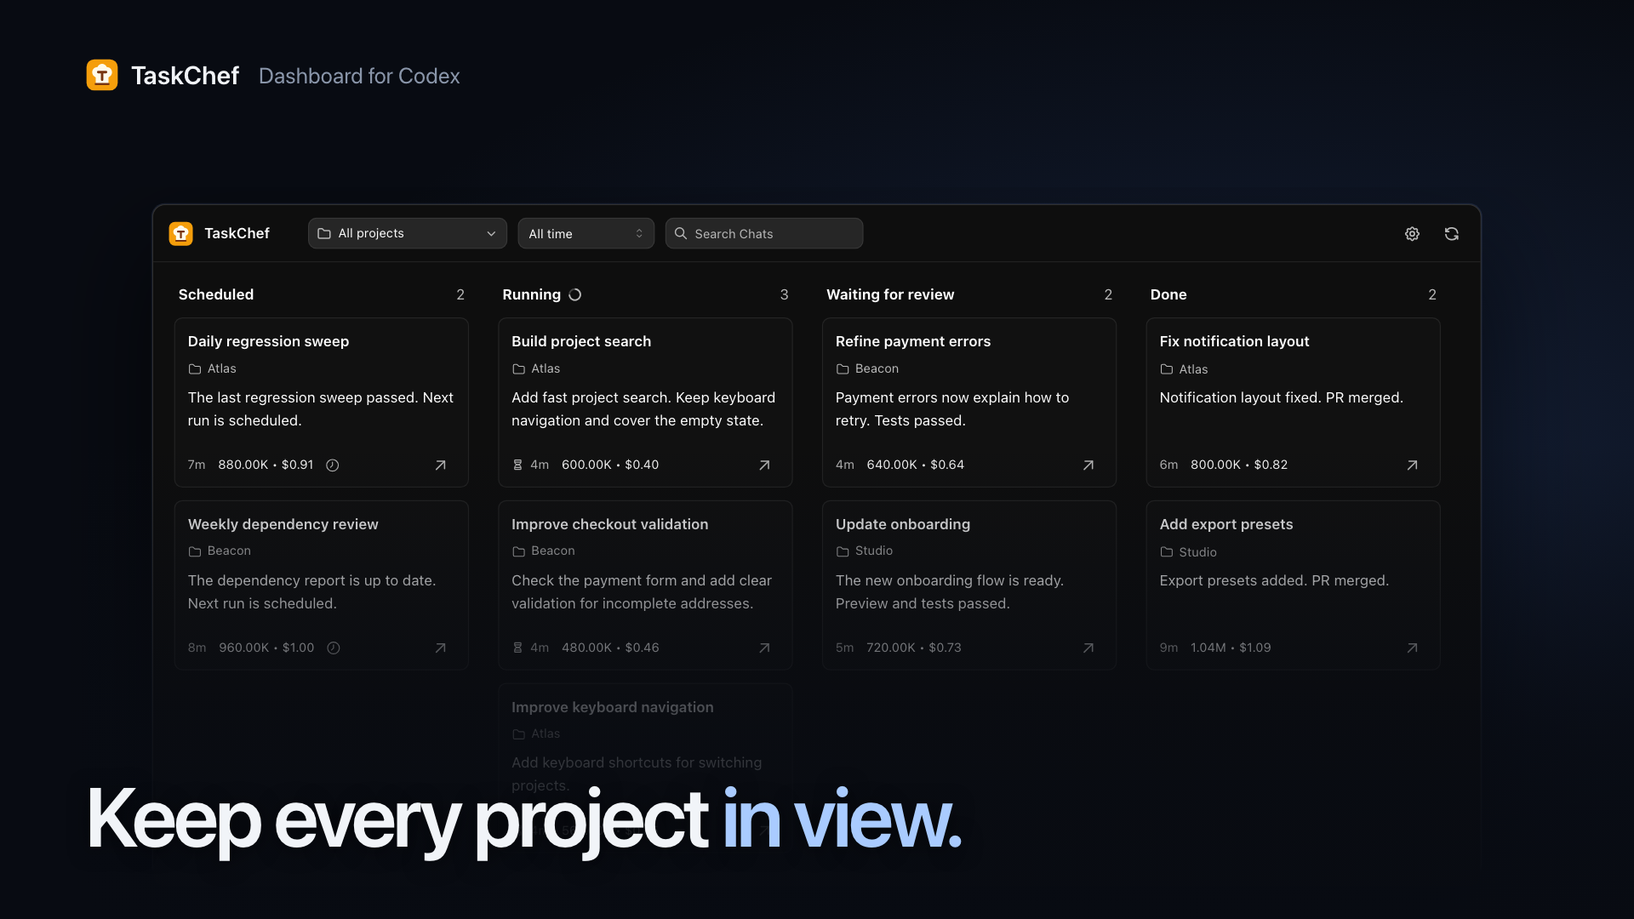
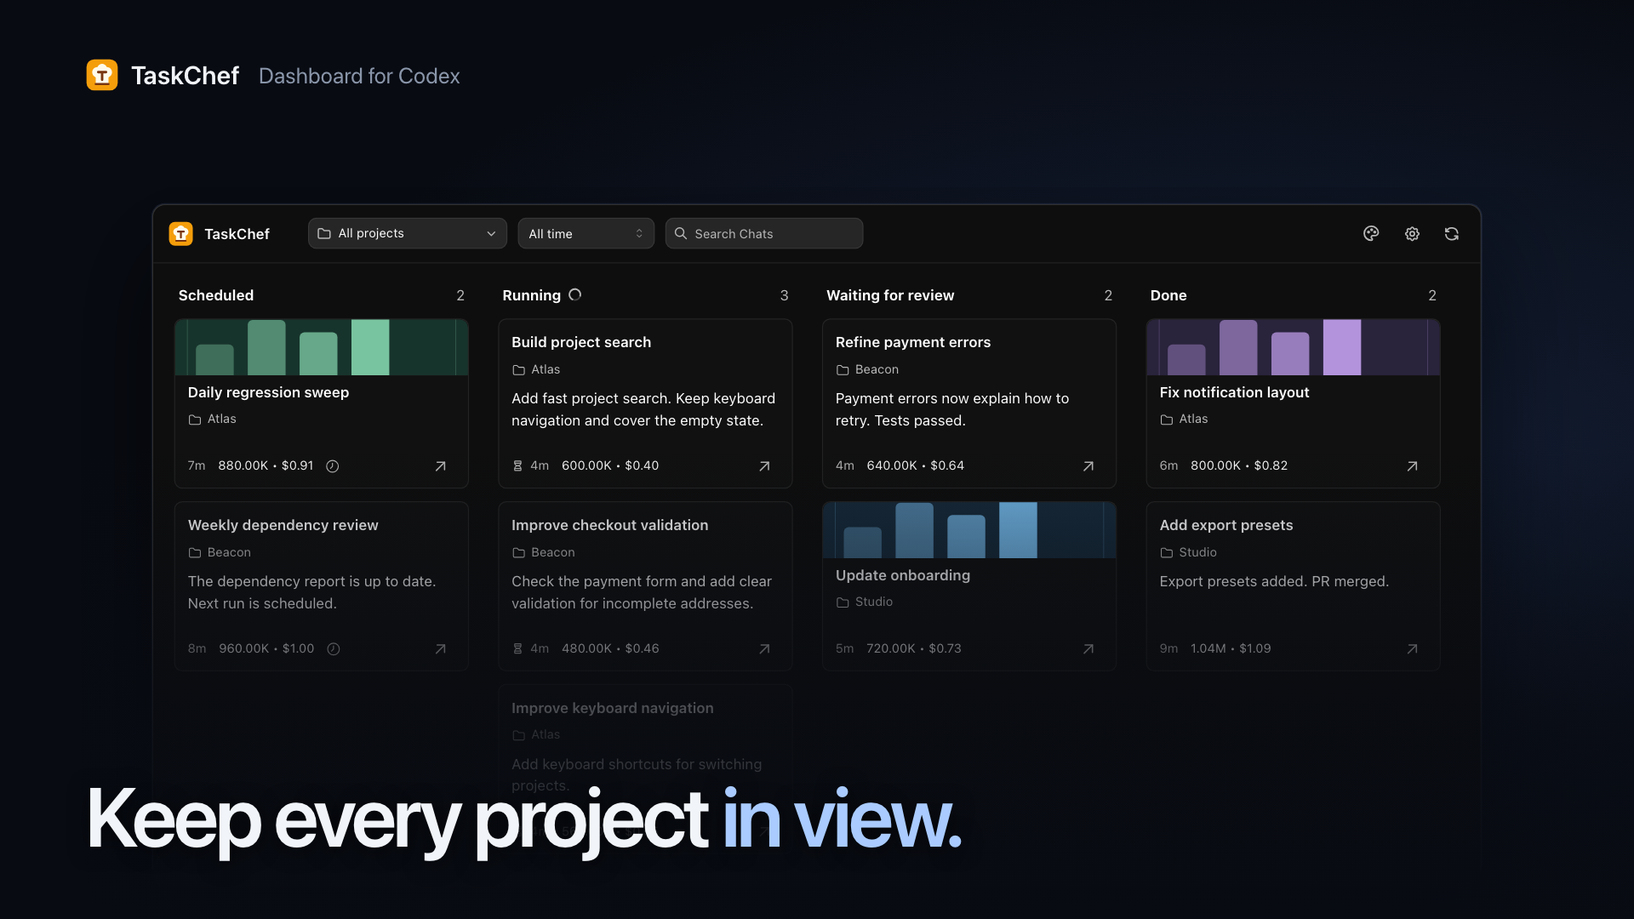
chore(video): tighten pacing and showcase covers and themes

diff --git a/video/Launch.tsx b/video/Launch.tsx
@@ -23,7 +23,13 @@ function ChapterTitle({ children }: { children: ReactNode }) {
 export function Launch() {
   const frame = useCurrentFrame();
   const { fps } = useVideoConfig();
-  const time = frame / fps;
+  const elapsed = frame / fps;
+  // Cut the opening by 20 frames and the overview pause by 45 frames.
+  const time = elapsed + (frame >= 115 ? 65 / 30 : 20 / 30);
+  const themeScene = frame >= 865 && frame < 1000;
+  const themeTime = (frame - 865) / fps;
+  const themeId = themeScene && themeTime >= 2 && themeTime < 3 ? 'chatgpt' : themeScene && themeTime >= 3 && themeTime < 4 ? 'catppuccin' : 'codex';
+  const appearance = themeId === 'chatgpt' ? 'light' : 'dark';
   // One camera and one board preserve spatial continuity across chapters.
   const times = [2, 6.7, 7.6, 11.7, 12.7, 15.7, 17.1, 18.2, 19, 20.9, 22.2, 25.8, 27, 28, 28.7, 29.2, 30, 31];
   const scales = [1.22, 1.22, 3, 3, 2.4, 2.4, 1.22, 1.22, 2.3, 2.3, 2.4, 2.4, 1.22, 1.22, 2.8, 2.8, 1.22, 1.22];
@@ -35,38 +41,39 @@ export function Launch() {
     : phase === 'merged' && time < 24.5 ? interpolate(time, [23.8, 24.5], [0, 1], { ...clamp, easing: ease }) : undefined;
   const live = interpolate(time, [8.3, 10.7], [0, 1], clamp);
   const liveUsage = usage(Math.round(600_000 + live * 640_000), .4 + live * .46);
-  const selected = time >= 28.6;
+  const selected = time >= 28.6 && !themeScene;
   const filter = interpolate(time, [28.6, 29.2], [0, 1], { ...clamp, easing: ease });
   const fadeOther = interpolate(time, [28.25, 28.6], [1, 0], clamp);
   const detail = time >= 18.2 && time < 20.9;
   const usageRow = time < 19.9 ? 1 : 2;
   return <AbsoluteFill className="film opening-study launch-film" style={themeVariables(visualTheme('codex', 'dark'), 'dark') as CSSProperties}>
-    <Audio name="Tech House vibes — Mixkit" src={staticFile('tech-house-vibes.mp3')} trimBefore={Math.round(1.52 * fps)} durationInFrames={34 * fps} premountFor={fps}
-      volume={interpolate(time, [0, .1, 32.8, 34], [0, .8, .8, 0], clamp)} />
+    <Audio name="Tech House vibes — Mixkit" src={staticFile('tech-house-vibes.mp3')} trimBefore={Math.round(1.52 * fps)} durationInFrames={1090} premountFor={fps}
+      volume={interpolate(elapsed, [0, .1, 35.1, 1090 / fps], [0, .8, .8, 0], clamp)} />
     <div className="opening-halo" style={{ translate: `${Math.sin(time * .7) * 90}px ${Math.cos(time * .5) * 35}px` }} />
-    {time >= 2 && time < 31 && <div className="opening-brand"><Img src={staticFile('taskchef-dark.svg')} alt="" />TaskChef <span>Dashboard for Codex</span></div>}
-    <Sequence name="Product identity" from={0} durationInFrames={2 * fps} premountFor={fps}>
+    {frame >= 40 && frame < 1000 && <div className="opening-brand"><Img src={staticFile('taskchef-dark.svg')} alt="" />TaskChef <span>Dashboard for Codex</span></div>}
+    <Sequence name="Product identity" from={0} durationInFrames={40} premountFor={fps}>
       <div className="opening-type"><div className="opening-identity"><div><Img src={staticFile('taskchef-dark.svg')} alt="" /><span>TaskChef</span></div><p>Dashboard for Codex</p></div></div>
       <div className="opening-rails" style={{ rotate: '-12deg', translate: `${time * 180 - 240}px 0` }}><i /><i /><i /></div>
-      <FloatingChats time={time} heroUsage={usage(600_000, .4)} />
+      <FloatingChats time={elapsed} heroUsage={usage(600_000, .4)} />
     </Sequence>
-    {time >= 2 && time < 31 && <div className="opening-board-mask">
-      <div className="opening-board-stage" inert style={{ left: pose(xs), top: pose(ys) - 220, scale: pose(scales) }}>
-        <ProductBoard phase={phase} moveProgress={move} project={selected ? 'atlas' : ''} heroUsage={phase === 'running' ? liveUsage : undefined} filterProgress={selected ? filter : undefined} highlightProject={time >= 28 && time < 29.3}>
+    {frame >= 40 && frame < 1000 && <div className="opening-board-mask">
+      <div className="opening-board-stage" inert style={{ left: themeScene ? interpolate(themeTime, [0, 1.5, 2, 4, 4.5], [179, 179, -160, -160, 179], { ...clamp, easing: ease }) : pose(xs), top: (themeScene ? interpolate(themeTime, [0, 1.5, 2, 4, 4.5], [240, 240, 200, 200, 240], { ...clamp, easing: ease }) : pose(ys)) - 220, scale: themeScene ? interpolate(themeTime, [0, 1.5, 2, 4, 4.5], [1.22, 1.22, 1.6, 1.6, 1.22], { ...clamp, easing: ease }) : pose(scales) }}>
+        <ProductBoard themeId={themeId} appearance={appearance} showThemePanel={themeScene} phase={phase} moveProgress={move} project={selected ? 'atlas' : ''} heroUsage={phase === 'running' ? liveUsage : undefined} filterProgress={selected ? filter : undefined} highlightProject={time >= 28 && time < 29.3}>
           <style>{`.launch-film .film-product .mantine-Modal-content { max-height: 505px; }
             .launch-film .taskchef-detail-usage tbody tr:nth-child(${usageRow}) { background: #8cc9ff20; }
-            ${demoTasks('merged').filter(task => task.project.id !== 'atlas').map(task => `.launch-film [data-chat-id="${task.id}"] { opacity: ${time >= 28.25 ? fadeOther : 1}; }`).join('\n')}`}</style>
+            ${demoTasks('merged').filter(task => task.project.id !== 'atlas').map(task => `.launch-film [data-chat-id="${task.id}"] { opacity: ${!themeScene && time >= 28.25 ? fadeOther : 1}; }`).join('\n')}`}</style>
           {detail && <NextTaskDetail task={demoTasks('review')[0]} opened busy={false} error={null} onClose={noop} onOpenCodex={noop} />}
         </ProductBoard>
       </div>
     </div>}
-    <Sequence name="Full board" from={2 * fps} durationInFrames={2.5 * fps} premountFor={fps}><ChapterTitle>Keep every project <span>in view.</span></ChapterTitle></Sequence>
-    <Sequence name="Running and live usage" from={6 * fps} durationInFrames={2.5 * fps} premountFor={fps}><ChapterTitle>See what’s <span>running.</span></ChapterTitle></Sequence>
-    <Sequence name="Finished chat moves to review" from={11 * fps} durationInFrames={2.5 * fps} premountFor={fps}><ChapterTitle>Ready for <span>your review.</span></ChapterTitle></Sequence>
-    <Sequence name="Turn and chat usage" from={16 * fps} durationInFrames={2.5 * fps} premountFor={fps}><ChapterTitle>Usage, <span>turn by turn.</span></ChapterTitle></Sequence>
-    <Sequence name="Merged PR moves to Done" from={21 * fps} durationInFrames={2.5 * fps} premountFor={fps}><ChapterTitle>Merged. <span>Done.</span></ChapterTitle></Sequence>
-    <Sequence name="Project filtering" from={26 * fps} durationInFrames={2.5 * fps} premountFor={fps}><ChapterTitle>Focus on <span>one project.</span></ChapterTitle></Sequence>
-    <Sequence name="TaskChef closing" from={31 * fps} durationInFrames={3 * fps} premountFor={fps}>
+    <Sequence name="Full board" from={40} durationInFrames={2.5 * fps} premountFor={fps}><ChapterTitle>Keep every project <span>in view.</span></ChapterTitle></Sequence>
+    <Sequence name="Running and live usage" from={115} durationInFrames={2.5 * fps} premountFor={fps}><ChapterTitle>See what’s <span>running.</span></ChapterTitle></Sequence>
+    <Sequence name="Finished chat moves to review" from={265} durationInFrames={2.5 * fps} premountFor={fps}><ChapterTitle>Ready for <span>your review.</span></ChapterTitle></Sequence>
+    <Sequence name="Turn and chat usage" from={415} durationInFrames={2.5 * fps} premountFor={fps}><ChapterTitle>Usage, <span>turn by turn.</span></ChapterTitle></Sequence>
+    <Sequence name="Merged PR moves to Done" from={565} durationInFrames={2.5 * fps} premountFor={fps}><ChapterTitle>Merged. <span>Done.</span></ChapterTitle></Sequence>
+    <Sequence name="Project filtering" from={715} durationInFrames={2.5 * fps} premountFor={fps}><ChapterTitle>Focus on <span>one project.</span></ChapterTitle></Sequence>
+    <Sequence name="Theme switching" from={865} durationInFrames={2.5 * fps} premountFor={fps}><ChapterTitle>Make it <span>your own.</span></ChapterTitle></Sequence>
+    <Sequence name="TaskChef closing" from={1000} durationInFrames={3 * fps} premountFor={fps}>
       <AbsoluteFill className="film film-closing"><div className="film-glow" /><div><Img src={staticFile('taskchef-dark.svg')} alt="" /><h1>TaskChef</h1><p>Dashboard for Codex</p><div className="film-url">taskchef.dev</div></div></AbsoluteFill>
     </Sequence>
   </AbsoluteFill>;

diff --git a/video/Frame.tsx b/video/Frame.tsx
@@ -1,12 +1,13 @@
 import type { CSSProperties, ReactNode } from 'react';
 import { AbsoluteFill, Easing, Img, interpolate, staticFile, useCurrentFrame, useVideoConfig } from 'remotion';
-import { ActionIcon, Group, MantineProvider, Select, TextInput, Title, createTheme } from '@mantine/core';
-import { IconRefresh, IconSearch, IconSettings } from '@tabler/icons-react';
+import { ActionIcon, Group, MantineProvider, Select, SegmentedControl, TextInput, Title, createTheme } from '@mantine/core';
+import { IconCheck, IconRefresh, IconSearch, IconSettings } from '@tabler/icons-react';
 import { TaskBoard } from '../src/ui/components/TaskBoard';
 import { turnUsageLabel } from '../src/ui/components/SavedUsageFormat';
 import { RelativeTimeProvider } from '../src/ui/components/RelativeTime';
 import { ProjectPicker } from '../src/mcp-app/react/ProjectPicker';
-import { themeVariables, visualTheme } from '../src/mcp-app/react/themes';
+import { AppearancePicker } from '../src/mcp-app/react/AppearancePicker';
+import { themeVariables, visualTheme, type Appearance } from '../src/mcp-app/react/themes';
 const mark = staticFile('taskchef-dark.svg');
 import { DEMO_NOW, HERO_ID, LANES, PROJECTS, demoTasks, usage, type Phase } from './demo';
 import type { SavedUsage } from '../src/ui/types';
@@ -15,6 +16,26 @@ const theme = createTheme({ fontFamily: '-apple-system, BlinkMacSystemFont, "Seg
   components: { Modal: { defaultProps: { withinPortal: false, lockScroll: false, transitionProps: { duration: 0 } } } } });
 const palette = themeVariables(visualTheme('codex', 'dark'), 'dark');
 const noop = () => {};
+const loadDemoImage = async (_task: unknown, url?: string) => url ?? null;
+
+// Frame-controlled presentation of the native appearance panel and its controls.
+function FilmThemePanel({ themeId, appearance }: { themeId: string; appearance: Appearance }) {
+  return <section className="next-appearance-panel" aria-label="Appearance settings">
+    <h2>Appearance</h2>
+    <SegmentedControl key={appearance} transitionDuration={0} fullWidth value={appearance} onChange={noop} data={[{ value: 'light', label: 'DAY' }, { value: 'dark', label: 'NIGHT' }, { value: 'system', label: 'SYSTEM' }]} size="xs" />
+    <h3>Theme</h3><div className="next-theme-list" role="radiogroup" aria-label="Theme">
+      {['chatgpt', 'catppuccin', 'codex'].map((id, index) => {
+        const item = visualTheme(id, appearance);
+        const colors = themeVariables(item, appearance);
+        return <div key={id}>{index === 1 && <div className="next-theme-group">Codex themes</div>}
+          <button className="next-appearance-theme" role="radio" aria-checked={id === themeId}>
+            <span className="next-appearance-preview" style={{ background: colors['--taskchef-surface'], color: colors['--taskchef-link'], borderColor: colors['--taskchef-border-heavy'] }}>Aa</span>
+            <span>{item.label}</span>{id === themeId && <IconCheck size={16} />}
+          </button></div>;
+      })}
+    </div>
+  </section>;
+}
 
 export function FilmFrame({ eyebrow, title, children }: { eyebrow: string; title: string; children: ReactNode }) {
   const frame = useCurrentFrame();
@@ -30,7 +51,7 @@ export function FilmFrame({ eyebrow, title, children }: { eyebrow: string; title
   </AbsoluteFill>;
 }
 
-export function ProductBoard({ phase, project = '', moveProgress, children, highlightProject = false, heroUsage, filterProgress }: { phase: Phase; project?: string; moveProgress?: number; children?: ReactNode; highlightProject?: boolean; heroUsage?: SavedUsage; filterProgress?: number }) {
+export function ProductBoard({ phase, project = '', moveProgress, children, highlightProject = false, heroUsage, filterProgress, themeId = 'codex', appearance = 'dark', showThemePanel = false }: { phase: Phase; project?: string; moveProgress?: number; children?: ReactNode; highlightProject?: boolean; heroUsage?: SavedUsage; filterProgress?: number; themeId?: string; appearance?: Appearance; showThemePanel?: boolean }) {
   const frame = useCurrentFrame();
   const tasks = demoTasks(phase, project);
   if (heroUsage) {
@@ -43,7 +64,7 @@ export function ProductBoard({ phase, project = '', moveProgress, children, high
   // Fix wall-clock labels and suppress the product's real-time FLIP animation.
   // The same destination card moves by a frame-driven transform in this film.
   const transform = moveProgress == null ? 'none' : `translate(${-312 * (1 - moveProgress)}px, ${-10 * Math.sin(Math.PI * moveProgress)}px)`;
-  return <div className={`film-product${highlightProject ? " film-product-highlight-project" : ""}`}>
+  return <div style={themeVariables(visualTheme(themeId, appearance), appearance) as CSSProperties} className={`film-product${highlightProject ? " film-product-highlight-project" : ""}`}>
     <style>{`
       .film-product .taskchef-board-card { transform: none !important; }
       .film-product [data-chat-id="${HERO_ID}"] { transform: ${transform} !important; position: relative; z-index: 5; ${moveProgress != null && moveProgress < 1 ? 'box-shadow: 0 16px 35px #0008; border-color: #75b8ff;' : ''} }
@@ -59,7 +80,7 @@ export function ProductBoard({ phase, project = '', moveProgress, children, high
       ${tasks.filter(task => task.status === 'working').map(task => `.film-product [data-chat-id="${task.id}"] .taskchef-card-turn-usage { font-size: 0; } .film-product [data-chat-id="${task.id}"] .taskchef-card-turn-usage::after { content: ${JSON.stringify(turnUsageLabel(task.turnUsage!))}; font-size: 12px; }`).join('\n')}
       .film-product .taskchef-running-spinner { animation: none; transform: rotate(${frame * 8}deg); }
     `}</style>
-    <MantineProvider theme={theme} forceColorScheme="dark">
+    <MantineProvider theme={theme} forceColorScheme={appearance}>
       <RelativeTimeProvider now={DEMO_NOW}>
         <div className="taskchef-app-shell">
           <header className="taskchef-app-header">
@@ -68,9 +89,9 @@ export function ProductBoard({ phase, project = '', moveProgress, children, high
               <ProjectPicker data={PROJECTS} value={project} onChange={noop} />
               <Select className="taskchef-app-date" aria-label="Updated" data={[{ label: "All time", value: "all" }]} value="all" onChange={noop} size="xs" /><TextInput className="taskchef-app-search" aria-label="Search Chats" placeholder="Search Chats" type="search" leftSection={<IconSearch size={14} />} value="" onChange={noop} size="xs" />
             </Group>
-            <Group className="taskchef-app-actions" gap="xs"><ActionIcon aria-label="Settings" variant="subtle"><IconSettings size={17} /></ActionIcon><ActionIcon aria-label="Refresh" variant="subtle"><IconRefresh size={17} /></ActionIcon></Group>
+            <Group className="taskchef-app-actions" gap="xs"><div className="next-appearance"><AppearancePicker value={appearance} appearance={appearance} visualThemeId={themeId} onChange={noop} onVisualThemeChange={noop} />{showThemePanel && <FilmThemePanel themeId={themeId} appearance={appearance} />}</div><ActionIcon aria-label="Settings" variant="subtle"><IconSettings size={17} /></ActionIcon><ActionIcon aria-label="Refresh" variant="subtle"><IconRefresh size={17} /></ActionIcon></Group>
           </header>
-          <main className="taskchef-app-main"><TaskBoard tasks={tasks} lanes={LANES} completedLimit={5} groupInterruptedWithWaiting onMoreCompleted={noop} onOpenCodex={noop} onOpenDetail={noop} /></main>
+          <main className="taskchef-app-main"><TaskBoard loadImage={loadDemoImage} tasks={tasks} lanes={LANES} completedLimit={5} groupInterruptedWithWaiting onMoreCompleted={noop} onOpenCodex={noop} onOpenDetail={noop} /></main>
         </div>
         {children}
       </RelativeTimeProvider>

diff --git a/video/demo.ts b/video/demo.ts
@@ -1,3 +1,4 @@
+import { staticFile } from 'remotion';
 import type { SavedUsage, Task, TaskStatus } from '../src/ui/types';
 
 // Synthetic fixtures only. The video never reads local chats or calls MCP/GitHub.
@@ -58,5 +59,9 @@ export function demoTasks(phase: Phase, project = ''): Task[] {
     chat(8, 'Weekly dependency review', 'beacon', 'scheduled', 'Review dependency updates every Monday.', 'The dependency report is up to date. Next run is scheduled.'),
     chat(9, 'Add export presets', 'studio', 'completed', 'Add portrait and landscape export presets.', 'Export presets added. PR merged.'),
   ];
+  for (const [id, name] of [[5, 'onboarding'], [6, 'notifications'], [7, 'regression']] as const) {
+    const task = tasks.find(item => item.id.endsWith(String(id).padStart(12, '0')))!;
+    task.replyImage = { url: staticFile(`${name}.svg`), alt: `${task.title} preview` };
+  }
   return project ? tasks.filter(task => task.project.id === project) : tasks;
 }

diff --git a/video/index.tsx b/video/index.tsx
@@ -20,7 +20,7 @@ for (const [key, value] of Object.entries(themeVariables(visualTheme('codex', 'd
 }
 
 registerRoot(() => <>
-  <Composition id="TaskChefLaunch" component={Launch} durationInFrames={1020} fps={30} width={1920} height={1080} />
+  <Composition id="TaskChefLaunch" component={Launch} durationInFrames={1090} fps={30} width={1920} height={1080} />
   <Folder name="Drafts">
     <Composition id="TaskChefOpening" component={OpeningStudy} durationInFrames={336} fps={30} width={1920} height={1080} />
     <Composition id="ParallelProjects" component={Opening} durationInFrames={180} fps={30} width={1920} height={1080} />

diff --git a/video/film.css b/video/film.css
@@ -66,3 +66,7 @@
 .opening-fragment-1 .taskchef-board-card:not([data-chat-id="00000000-0000-7000-8000-000000000001"]),
 .opening-fragment-2 .taskchef-board-card:not([data-chat-id="00000000-0000-7000-8000-000000000002"]),
 .opening-fragment-3 .taskchef-board-card:not([data-chat-id="00000000-0000-7000-8000-000000000003"]) { display: none; }
+
+.film-product .taskchef-board-card:has(.taskchef-reply-cover) .taskchef-turn-card { display: none; }
+.film-product .taskchef-reply-cover { height: 54px; margin-bottom: 6px; background: var(--taskchef-surface-muted); }
+.film-product .taskchef-reply-cover img { object-fit: cover; }

diff --git a/docs/launch/video-script.md b/docs/launch/video-script.md
@@ -1,6 +1,6 @@
 # TaskChef launch video — final script
 
-**Length:** 34 seconds. **Format:** 1920 × 1080, 30 fps.
+**Length:** 36⅓ seconds. **Format:** 1920 × 1080, 30 fps.
 **Positioning:** Dashboard for Codex. Keep every project in view.
 
 The film uses the actual TaskChef React components, controls, mark and Codex
@@ -9,16 +9,21 @@ there is no narration or screen recording.
 
 | Time | Title | Picture and action |
 | --- | --- | --- |
-| 0–2s | TaskChef · Dashboard for Codex | Logo, name, descriptor and native cards visible from frame zero. Cards move gently beside the identity. |
-| 2–6s | Keep every project in view. | Large title overlays the full board, then fades to reveal it. Scheduled, Running, Waiting for review and Done remain visible with nine chats. No Running close-up in this chapter. |
-| 6–11s | See what’s running. | Move into Running. Follow Build project search as latest-turn tokens rise from 600K to 1.24M and estimated API-equivalent cost rises from $0.40 to $0.86. |
-| 11–16s | Ready for your review. | The chat finishes. Follow the same card into Waiting for review while neighboring cards make room. Its prompt becomes its result. |
-| 16–21s | Usage, turn by turn. | Open the native Details popup. Highlight Latest turn (1.24M · $0.86), then Total chat (5.32M · $3.72). Keep the native API estimate note visible. |
-| 21–26s | Merged. Done. | Latest-turn PR #42 changes from open to merged. Its native link, result text and glyph update as the card moves into Done. |
-| 26–31s | Focus on one project. | Highlight the real project picker. Change All projects to Atlas. Other projects fade out and matching cards reposition. Scheduled remains visible. |
-| 31–34s | TaskChef · Dashboard for Codex | Logo, identity and taskchef.dev. Music fades to the ending. |
+| 0–1.33s | TaskChef · Dashboard for Codex | Logo, name, descriptor and native cards visible from frame zero. Cards move gently beside the identity. |
+| 1.33–3.83s | Keep every project in view. | Large title overlays the full board, then fades to reveal it. Scheduled, Running, Waiting for review and Done remain visible with nine chats and three synthetic image covers. No Running close-up in this chapter. |
+| 3.83–8.83s | See what’s running. | Move into Running. Follow Build project search as latest-turn tokens rise from 600K to 1.24M and estimated API-equivalent cost rises from $0.40 to $0.86. |
+| 8.83–13.83s | Ready for your review. | The chat finishes. Follow the same card into Waiting for review while neighboring cards make room. Its prompt becomes its result. |
+| 13.83–18.83s | Usage, turn by turn. | Open the native Details popup. Highlight Latest turn (1.24M · $0.86), then Total chat (5.32M · $3.72). Keep the native API estimate note visible. |
+| 18.83–23.83s | Merged. Done. | Latest-turn PR #42 changes from open to merged. Its native link, result text and glyph update as the card moves into Done. |
+| 23.83–28.83s | Focus on one project. | Highlight the real project picker. Change All projects to Atlas. Other projects fade out and matching cards reposition. Scheduled remains visible. |
+| 28.83–33.33s | Make it your own. | Show the native appearance controls. Switch ChatGPT Day → Catppuccin Night → Codex Night, then return to the full board. |
+| 33.33–36.33s | TaskChef · Dashboard for Codex | Logo, identity and taskchef.dev. Music fades to the ending. |
 
-Each chapter title uses one line with white and blue emphasis. It stays fully readable for about two seconds over a dark
+The opening holds for 1⅓ seconds. The overview moves straight into Running
+after its title fades, without an idle hold.
+
+Each chapter title uses one line with white and blue emphasis. It stays fully
+readable for about two seconds over a dark
 gradient, then fades. The board remains the visual background. The camera
 moves directly from Running to review and from usage to Done. It returns to
 the full board for overview and project filtering, without resetting to a
@@ -34,24 +39,28 @@ npm run video:preview
 ```
 
 Open `http://localhost:8090/TaskChefLaunch` and press Play with sound enabled.
-The full composition is 1,020 frames. Studio exposes each chapter title as a
+The full composition is 1,090 frames. Studio exposes each chapter title as a
 named timeline item. The Drafts folder retains earlier scene studies; those
 are not the current full cut.
 
 Key review points at 30 fps:
 
 - Frame 0: complete product identity, without fade-in.
-- Frame 153: full board with nine chats and Scheduled.
-- Frames 270 and 318: changing native card token/cost values.
-- Frames 420–441: Running → Waiting for review.
-- Frames 585 and 609: latest-turn and total-chat usage highlights.
-- Frames 714–735: PR merged → Done.
-- Frames 847–876: project selection, fading and repositioning.
-- Frame 960: ending.
+- Frame 114: full board with nine chats and Scheduled.
+- Frames 205 and 253: changing native card token/cost values.
+- Frames 355–376: Running → Waiting for review.
+- Frames 520 and 544: latest-turn and total-chat usage highlights.
+- Frames 649–670: PR merged → Done.
+- Frames 782–811: project selection, fading and repositioning.
+- Frames 945 and 970: light and dark theme switches.
+- Frame 1040: ending.
 
 The shared camera and board preserve spatial continuity. `ProductBoard` reuses
 `TaskBoard`, `ProjectPicker`, Mantine controls, native theme and production CSS;
-`NextTaskDetail` supplies the actual usage table. Frame-driven overrides keep
+`NextTaskDetail` supplies the actual usage table. The video uses the native
+cover loader and appearance icon, controls, Aa previews and theme variables.
+Its frame-controlled theme panel shows three choices from the native list.
+Cover illustrations are local SVG fixtures authored in code. Frame-driven overrides keep
 motion, spinner rotation, clock labels and usage values repeatable. They apply
 only to the video. The host bridge is not mounted and the film makes no MCP or
 GitHub requests. No product behavior or installed plugin changes.

diff --git a/docs/launch/opening-study.md b/docs/launch/opening-study.md
@@ -10,7 +10,7 @@ npm run video:preview
 ```
 
 Open `http://localhost:8090/TaskChefOpening` and press Play with sound on.
-Use `TaskChefLaunch` to review the current 34-second full film.
+Use `TaskChefLaunch` to review the current 36⅓-second full film.
 
 When an export is requested, `npm --prefix video run render:opening` exports
 this opening to `video/out/taskchef-opening.mp4`. `npm run video:render`
